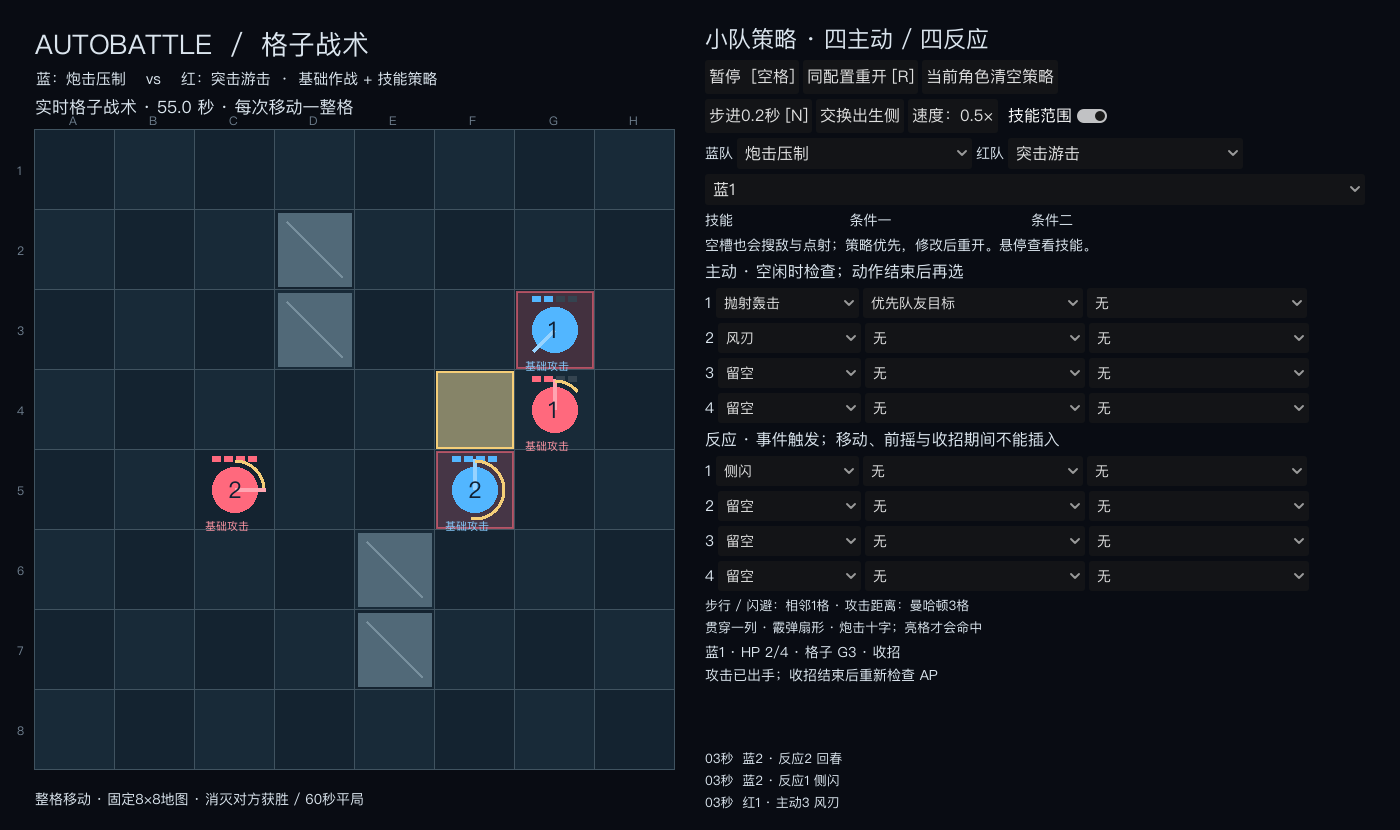
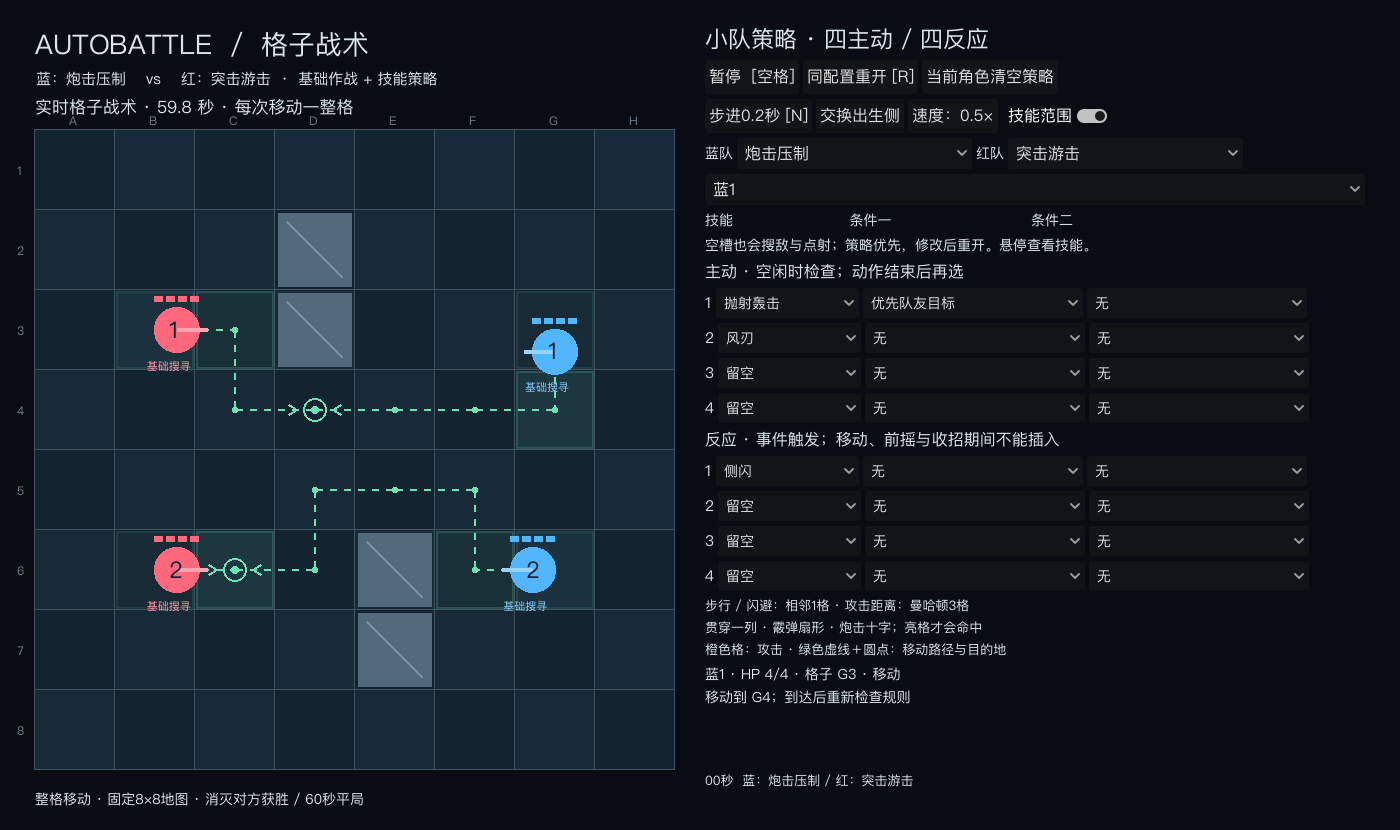
区分攻击与移动提示并恢复完整路径和目标点

diff --git a/README.md b/README.md
@@ -11,13 +11,13 @@
 - 固定8×8方格，四方向移动，每次一格。不斜走、不叠格、不迎面穿过。
 - 每个角色4HP，伤害、护盾、治疗均为整数。
 - 移动耗时0.55秒；短冲刺、侧闪0.25秒。目标格预占，别人不能抢入。
-- 逻辑位置始终是格心：移动期间占起点，到达后切换到终点；中间插值仅是动画，不是可停靠位置。起点淡色标记占格，虚线显示移动方向。
+- 逻辑位置始终是格心：移动期间占起点，到达后切换到终点；中间插值仅是动画，不是可停靠位置。起点淡色标记占格；绿色虚线、箭头显示完整计划路径，圆点标记最终目的地。只有下一格被预约，后续路径会随局势更新。移动提示独立于“技能范围”开关，始终保留。
 - 地形占整格。此版本取消连续缩圈，60秒未分胜负则平局。
 - 开战前可把蓝方拖动到己方两列内的空格，自动吸附格心。
 
 ## 攻击与范围
 
-距离按曼哈顿距离计算（横纵步数相加），射程3格。点击角色，显示通用可选目标范围；蓄力和弹道期间显示实际锁定命中格，可关闭范围显示。
+距离按曼哈顿距离计算（横纵步数相加），射程3格。点击角色，显示通用可选目标范围；蓄力和弹道期间用橙色格显示实际锁定命中范围，可关闭；棋子红蓝仅代表队伍，移动提示统一绿色。
 
 | 技能形态 | 预告和命中格 | 出招 |
 |---|---|---|
